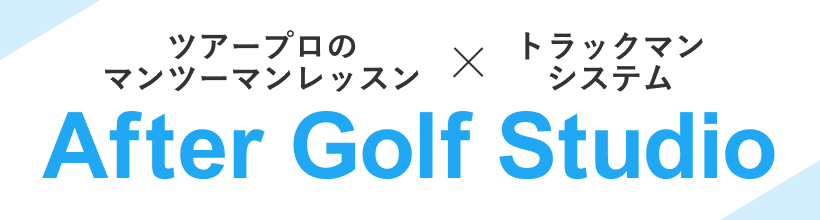
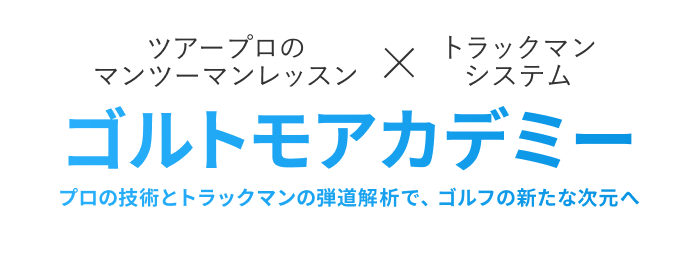
Feature/images (#103)
<!-- #の直後にIssue番号 -->
Close #

## 概要
コーチ紹介ページ以外の画像の差し替え

## やったこと
概要の通り

## やらなかったこと
Headerの背景画像がうまくエクスポートできなくてちゃんと実装できていません。。一旦リクエスト出します、他作業後に修正します。

<img width="1044" alt="スクリーンショット 2023-07-28 20 25 49"
src="https://github.com/calm1205/golf_academy/assets/127710433/ab3aee91-1bd2-4b28-92e2-c45b0b093088">
↑背景画像のみのエクスポートができていません。

## 備考
<!-- 参考にした資料や記事あれば -->

Changed region(s): [[0.0301, 0.1364, 1.0, 1.0], [0.0, 0.0, 0.1203, 0.2727], [0.5415, 0.1909, 0.6017, 0.3545]]

diff --git a/src/components/features/top/lessonStaff/lessonStaff.php b/src/components/features/top/lessonStaff/lessonStaff.php
@@ -4,13 +4,12 @@
     <img class="max-w-sm w-2/5" src="<?php echo $absoluteUriPath . '/asset/lesson/staff.jpeg' ?>" />
     <div class="flex flex-col w-full">
       <h3 class="text-2xl">
-        レッスンスタッフのご紹介
+        小久保晃一 / Kokubo Kouichi
       </h3>
 
       <hr class="border-b border-solid border-primary-default self-stretch mt-6">
 
       <p class="text-base whitespace-pre-line">
-        ゴルトモアカデミーの小久保晃一です。
         心からのおもてなしをお届けする加須市のゴルフスタジオ「ゴルトモアカデミー」へようこそ！私たちはシニア世代から現役世代、そしてジュニアまで、ゴルフを愛するすべての方々を対象に、最高のレッスン環境を提供しています。
 
         ゴルトモアカデミーは、ゴルフ愛好者のための特別な場所です。技術の向上と共に、楽しさと満足感を提供いたします。ぜひ、私たちのスタジオでゴルフの新たな次元を体感してください。お待ちしております！
@@ -25,17 +24,17 @@
 
 <!-- phone -->
 <?php
-$image = $absoluteUriPath . '/asset/lesson/staff.jpeg';
+$image = $absoluteUriPath . '/asset/lesson/staff_responsive.png';
 ?>
 
 <div class="hidden phone:flex flex-col justify-start items-center gap-10 ">
-  <img src='<?php echo $image ?>' class="px-20 w-4/5" />
+  <img src='<?php echo $image ?>' class="w-full rounded-3xl" />
 
   <div class="flex flex-col">
     <h3 class="text-2xl">
-      代表コーチ
-      小久保晃一
+      小久保晃一 / Kokubo Kouichi
     </h3>
+    <hr class="border-b border-solid border-primary-default self-stretch mt-6">
     <p class="text-base whitespace-pre-line">
       心からのおもてなしをお届けする加須市のゴルフスタジオ「ゴルトモアカデミー」へようこそ！私たちはシニア世代から現役世代、そしてジュニアまで、ゴルフを愛するすべての方々を対象に、最高のレッスン環境を提供しています。
 

diff --git a/src/components/features/top/header/header.php b/src/components/features/top/header/header.php
@@ -3,9 +3,13 @@
 ?>
 
 <div class="relative h-fit w-full">
-  <img src='<?php echo $absoluteUriPath ?>/asset/top/top.png' class="phone:h-60 phone:object-cover phone:object-left object-contain w-screen">
+  <!-- desktop -->
+  <img src='<?php echo $absoluteUriPath ?>/asset/top/top.png' class="phone:hidden phone:h-60 phone:object-cover phone:object-left object-contain w-screen">
 
-  <div class="absolute top-0 flex justify-center items-center h-full w-full overflow-hidden">
-    <img src="<?php echo $absoluteUriPath ?>/asset/top/title.png" class="h-3/5 phone:h-4/5 phone:px-4 phone:object-contain object-cover" />
+  <!-- phone -->
+  <img src='<?php echo $absoluteUriPath ?>/asset/top/topResponsive.png' class="hidden phone:block phone:h-60 w-screen">
+
+  <div class="hidden absolute top-0 phone:flex justify-center items-center h-full w-full overflow-hidden  bg-[#003C74] bg-opacity-[0.5]">
+    <img src="<?php echo $absoluteUriPath ?>/asset/top/title_responsive.png" class="h-3/5 phone:h-4/5 phone:px-4 phone:object-contain object-cover" />
   </div>
 </div>

diff --git a/src/components/ui_parts/header/header.php b/src/components/ui_parts/header/header.php
@@ -1,7 +1,7 @@
 <header class="h-24 px-4 flex sticky top-0 w-full items-center justify-between bg-white z-50 gap-6">
 
   <a href="/" class="cursor-pointer flex items-center gap-3">
-    <img class="" src="<?php echo $absoluteUriPath ?>/asset/header/logo.png" />
+    <img class="" src="<?php echo $absoluteUriPath ?>/asset/header/logo.svg" />
   </a>
 
   <nav class="phone:hidden flex w-fit items-end h-24 pb-3">

diff --git a/src/components/features/top/top.php b/src/components/features/top/top.php
@@ -15,7 +15,7 @@
   ob_start();
   include 'introduction/introduction.php';
   $children = ob_get_clean();
-  $title = 'After Golf Studioのご紹介';
+  $title = 'ゴルトモアカデミーのご紹介';
   include $uiPartsPath . '/section/section.php'
   ?>
 
